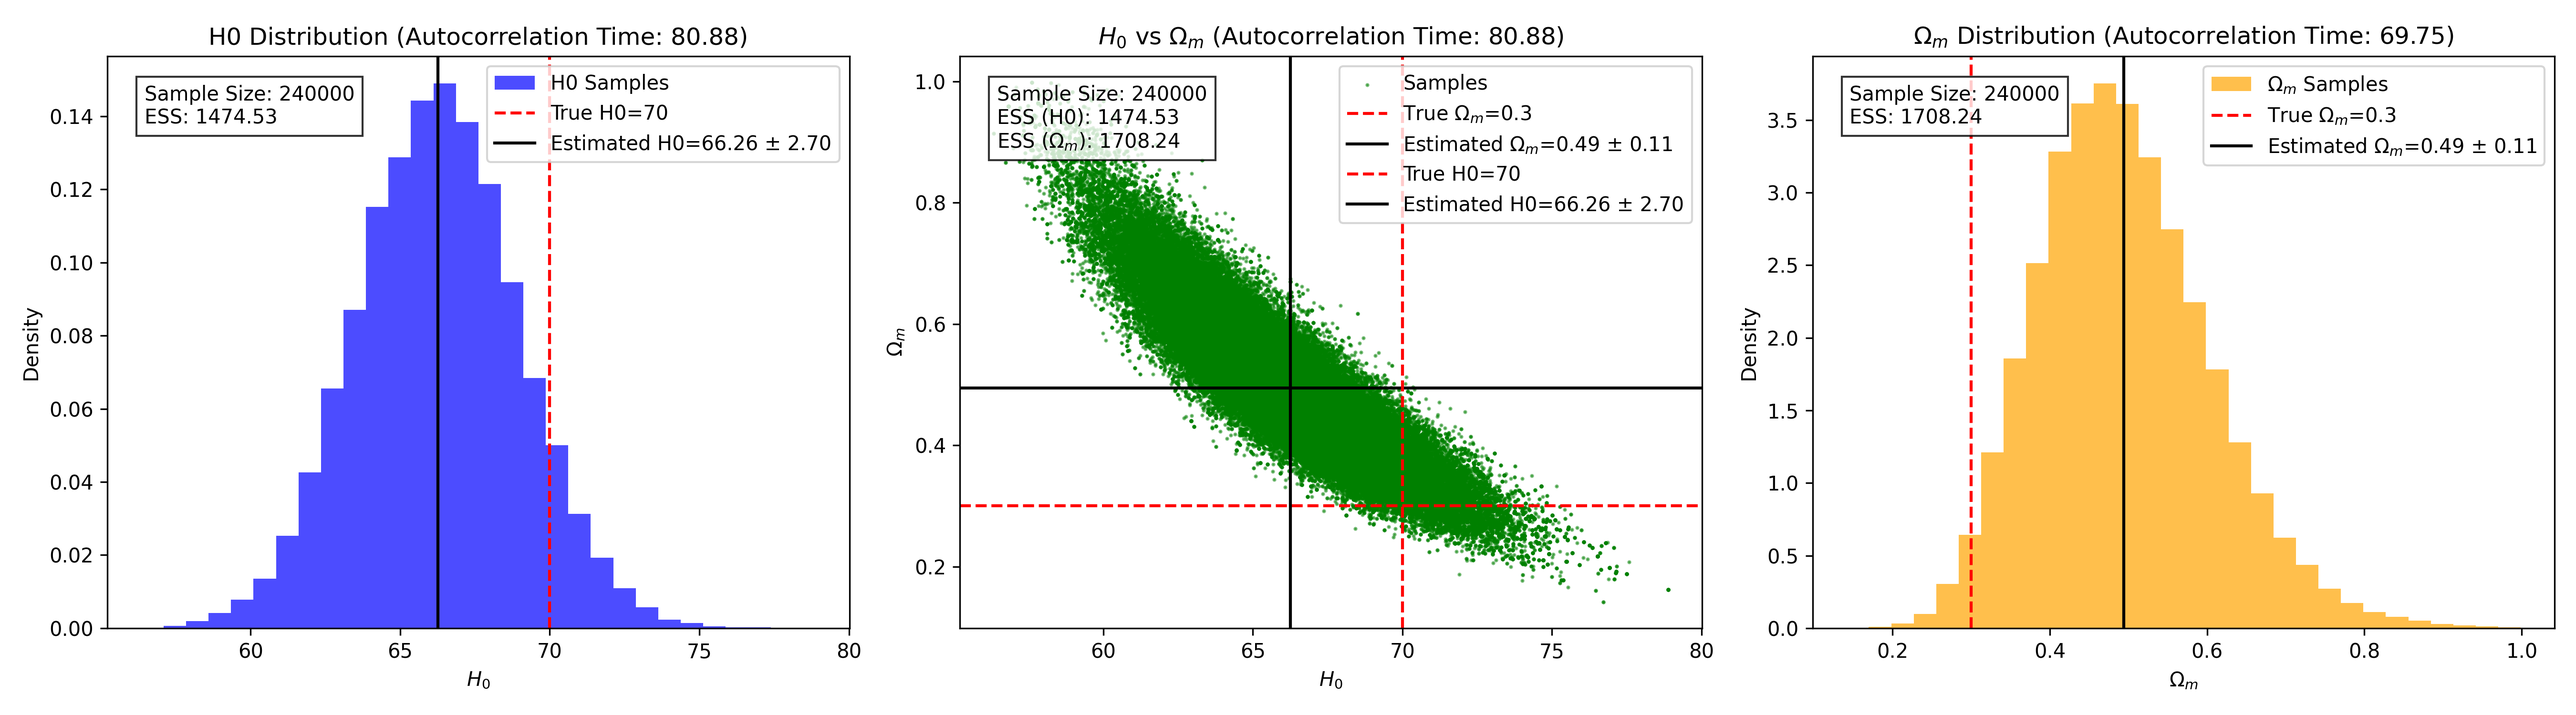
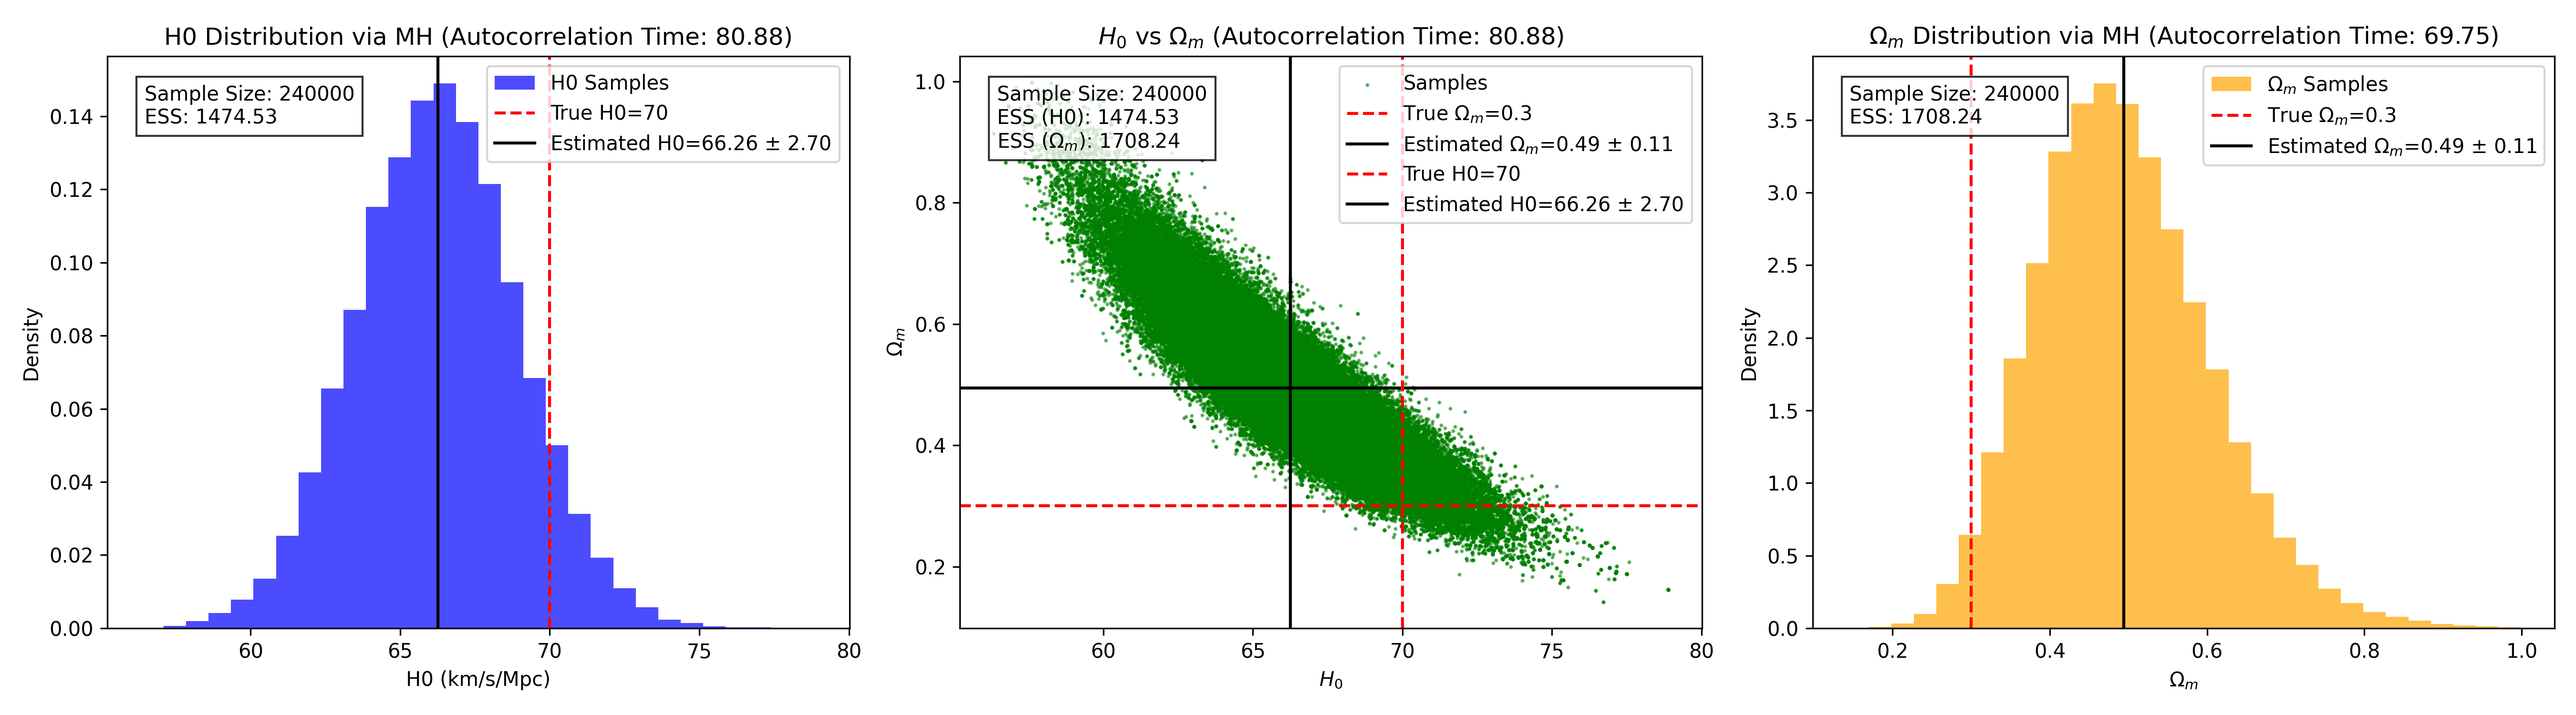
Final MH

Changed region(s): [[0.7156, 0.0307, 0.9644, 0.0613], [0.0622, 0.0307, 0.3111, 0.0613], [0.1556, 0.92, 0.2178, 0.9813]]

diff --git a/FinalProject/FinalProject_StretchMove.py b/FinalProject/FinalProject_StretchMove.py
@@ -155,33 +155,47 @@ plt.figure(figsize=(18, 5))
 
 # Histogram of H0
 plt.subplot(1, 3, 1)
-plt.hist(H0_samples, bins=30, density=True, alpha=0.7)
+plt.hist(H0_samples, bins=30, density=True, alpha=0.7, color='blue', label="H0 Samples")
 plt.axvline(true_H0, color='r', linestyle='--', label=f"True H0={true_H0}")
 plt.axvline(H0_mean, color='k', linestyle='-', label=f"Estimated H0={H0_mean:.2f} ± {H0_std:.2f}")
-plt.xlabel("$H_0$")
+plt.xlabel("H0 (km/s/Mpc)")
 plt.ylabel("Density")
 plt.legend()
-plt.title(f"Autocorrelation time (H0): {tau_H0:.2f}")
+plt.title(f"H0 Distribution (Autocorrelation Time: {tau_H0:.2f})")
+
+# Add additional information as text
+plt.text(0.05, 0.95, f"Sample Size: {len(H0_samples)}\nESS: {avg_ess_H0:.2f}",
+         transform=plt.gca().transAxes, verticalalignment='top', bbox=dict(facecolor='white', alpha=0.8))
 
 # Scatter plot of Omega_m vs H0
 plt.subplot(1, 3, 2)
-plt.scatter(H0_samples, Omega_m_samples, s=1, alpha=0.5)
+plt.scatter(H0_samples, Omega_m_samples, s=1, alpha=0.5, color='green', label="Samples")
 plt.axhline(true_Omega_m, color='r', linestyle='--', label=f"True $\\Omega_m$={true_Omega_m}")
 plt.axhline(Omega_m_mean, color='k', linestyle='-', label=f"Estimated $\\Omega_m$={Omega_m_mean:.2f} ± {Omega_m_std:.2f}")
+plt.axvline(true_H0, color='r', linestyle='--', label=f"True H0={true_H0}")
+plt.axvline(H0_mean, color='k', linestyle='-', label=f"Estimated H0={H0_mean:.2f} ± {H0_std:.2f}")
 plt.xlabel("$H_0$")
 plt.ylabel("$\\Omega_m$")
 plt.legend()
-plt.title(f"Autocorrelation time (H0): {tau_H0:.2f}")
+plt.title(f"$H_0$ vs $\\Omega_m$ (Autocorrelation Time: {tau_H0:.2f})")
+
+# Add additional information as text
+plt.text(0.05, 0.95, f"Sample Size: {len(H0_samples)}\nESS (H0): {avg_ess_H0:.2f}\nESS ($\\Omega_m$): {avg_ess_Omega_m:.2f}",
+         transform=plt.gca().transAxes, verticalalignment='top', bbox=dict(facecolor='white', alpha=0.8))
 
 # Histogram of Omega_m
 plt.subplot(1, 3, 3)
-plt.hist(Omega_m_samples, bins=30, density=True, alpha=0.7, color='orange')
+plt.hist(Omega_m_samples, bins=30, density=True, alpha=0.7, color='orange', label="$\\Omega_m$ Samples")
 plt.axvline(true_Omega_m, color='r', linestyle='--', label=f"True $\\Omega_m$={true_Omega_m}")
 plt.axvline(Omega_m_mean, color='k', linestyle='-', label=f"Estimated $\\Omega_m$={Omega_m_mean:.2f} ± {Omega_m_std:.2f}")
 plt.xlabel("$\\Omega_m$")
 plt.ylabel("Density")
 plt.legend()
-plt.title(f"Autocorrelation time ($\\Omega_m$): {tau_Omega_m:.2f}")
+plt.title(f"$\\Omega_m$ Distribution (Autocorrelation Time: {tau_Omega_m:.2f})")
+
+# Add additional information as text
+plt.text(0.05, 0.95, f"Sample Size: {len(Omega_m_samples)}\nESS: {avg_ess_Omega_m:.2f}",
+         transform=plt.gca().transAxes, verticalalignment='top', bbox=dict(facecolor='white', alpha=0.8))
 
 plt.tight_layout()
 plt.savefig("FinalProject/figs/parameter_distribution_StretchMove.png", dpi=300)

diff --git a/FinalProject/FinalProject_MH.py b/FinalProject/FinalProject_MH.py
@@ -132,10 +132,10 @@ plt.subplot(1, 3, 1)
 plt.hist(H0_burnt, bins=30, density=True, alpha=0.7, color='blue', label="H0 Samples")
 plt.axvline(true_H0, color='r', linestyle='--', label=f"True H0={true_H0}")
 plt.axvline(H0_mean, color='k', linestyle='-', label=f"Estimated H0={H0_mean:.2f} ± {H0_std:.2f}")
-plt.xlabel("$H_0$")
+plt.xlabel("H0 (km/s/Mpc)")
 plt.ylabel("Density")
 plt.legend()
-plt.title(f"H0 Distribution (Autocorrelation Time: {tau_H0:.2f})")
+plt.title(f"H0 Distribution via MH (Autocorrelation Time: {tau_H0:.2f})")
 
 # Add additional information as text
 plt.text(0.05, 0.95, f"Sample Size: {len(H0_burnt)}\nESS: {ess_H0:.2f}",
@@ -149,7 +149,7 @@ plt.axvline(Omega_m_mean, color='k', linestyle='-', label=f"Estimated $\\Omega_m
 plt.xlabel("$\\Omega_m$")
 plt.ylabel("Density")
 plt.legend()
-plt.title(f"$\\Omega_m$ Distribution (Autocorrelation Time: {tau_Omega_m:.2f})")
+plt.title(f"$\\Omega_m$ Distribution via MH (Autocorrelation Time: {tau_Omega_m:.2f})")
 
 # Add additional information as text
 plt.text(0.05, 0.95, f"Sample Size: {len(Omega_m_burnt)}\nESS: {ess_Omega_m:.2f}",
